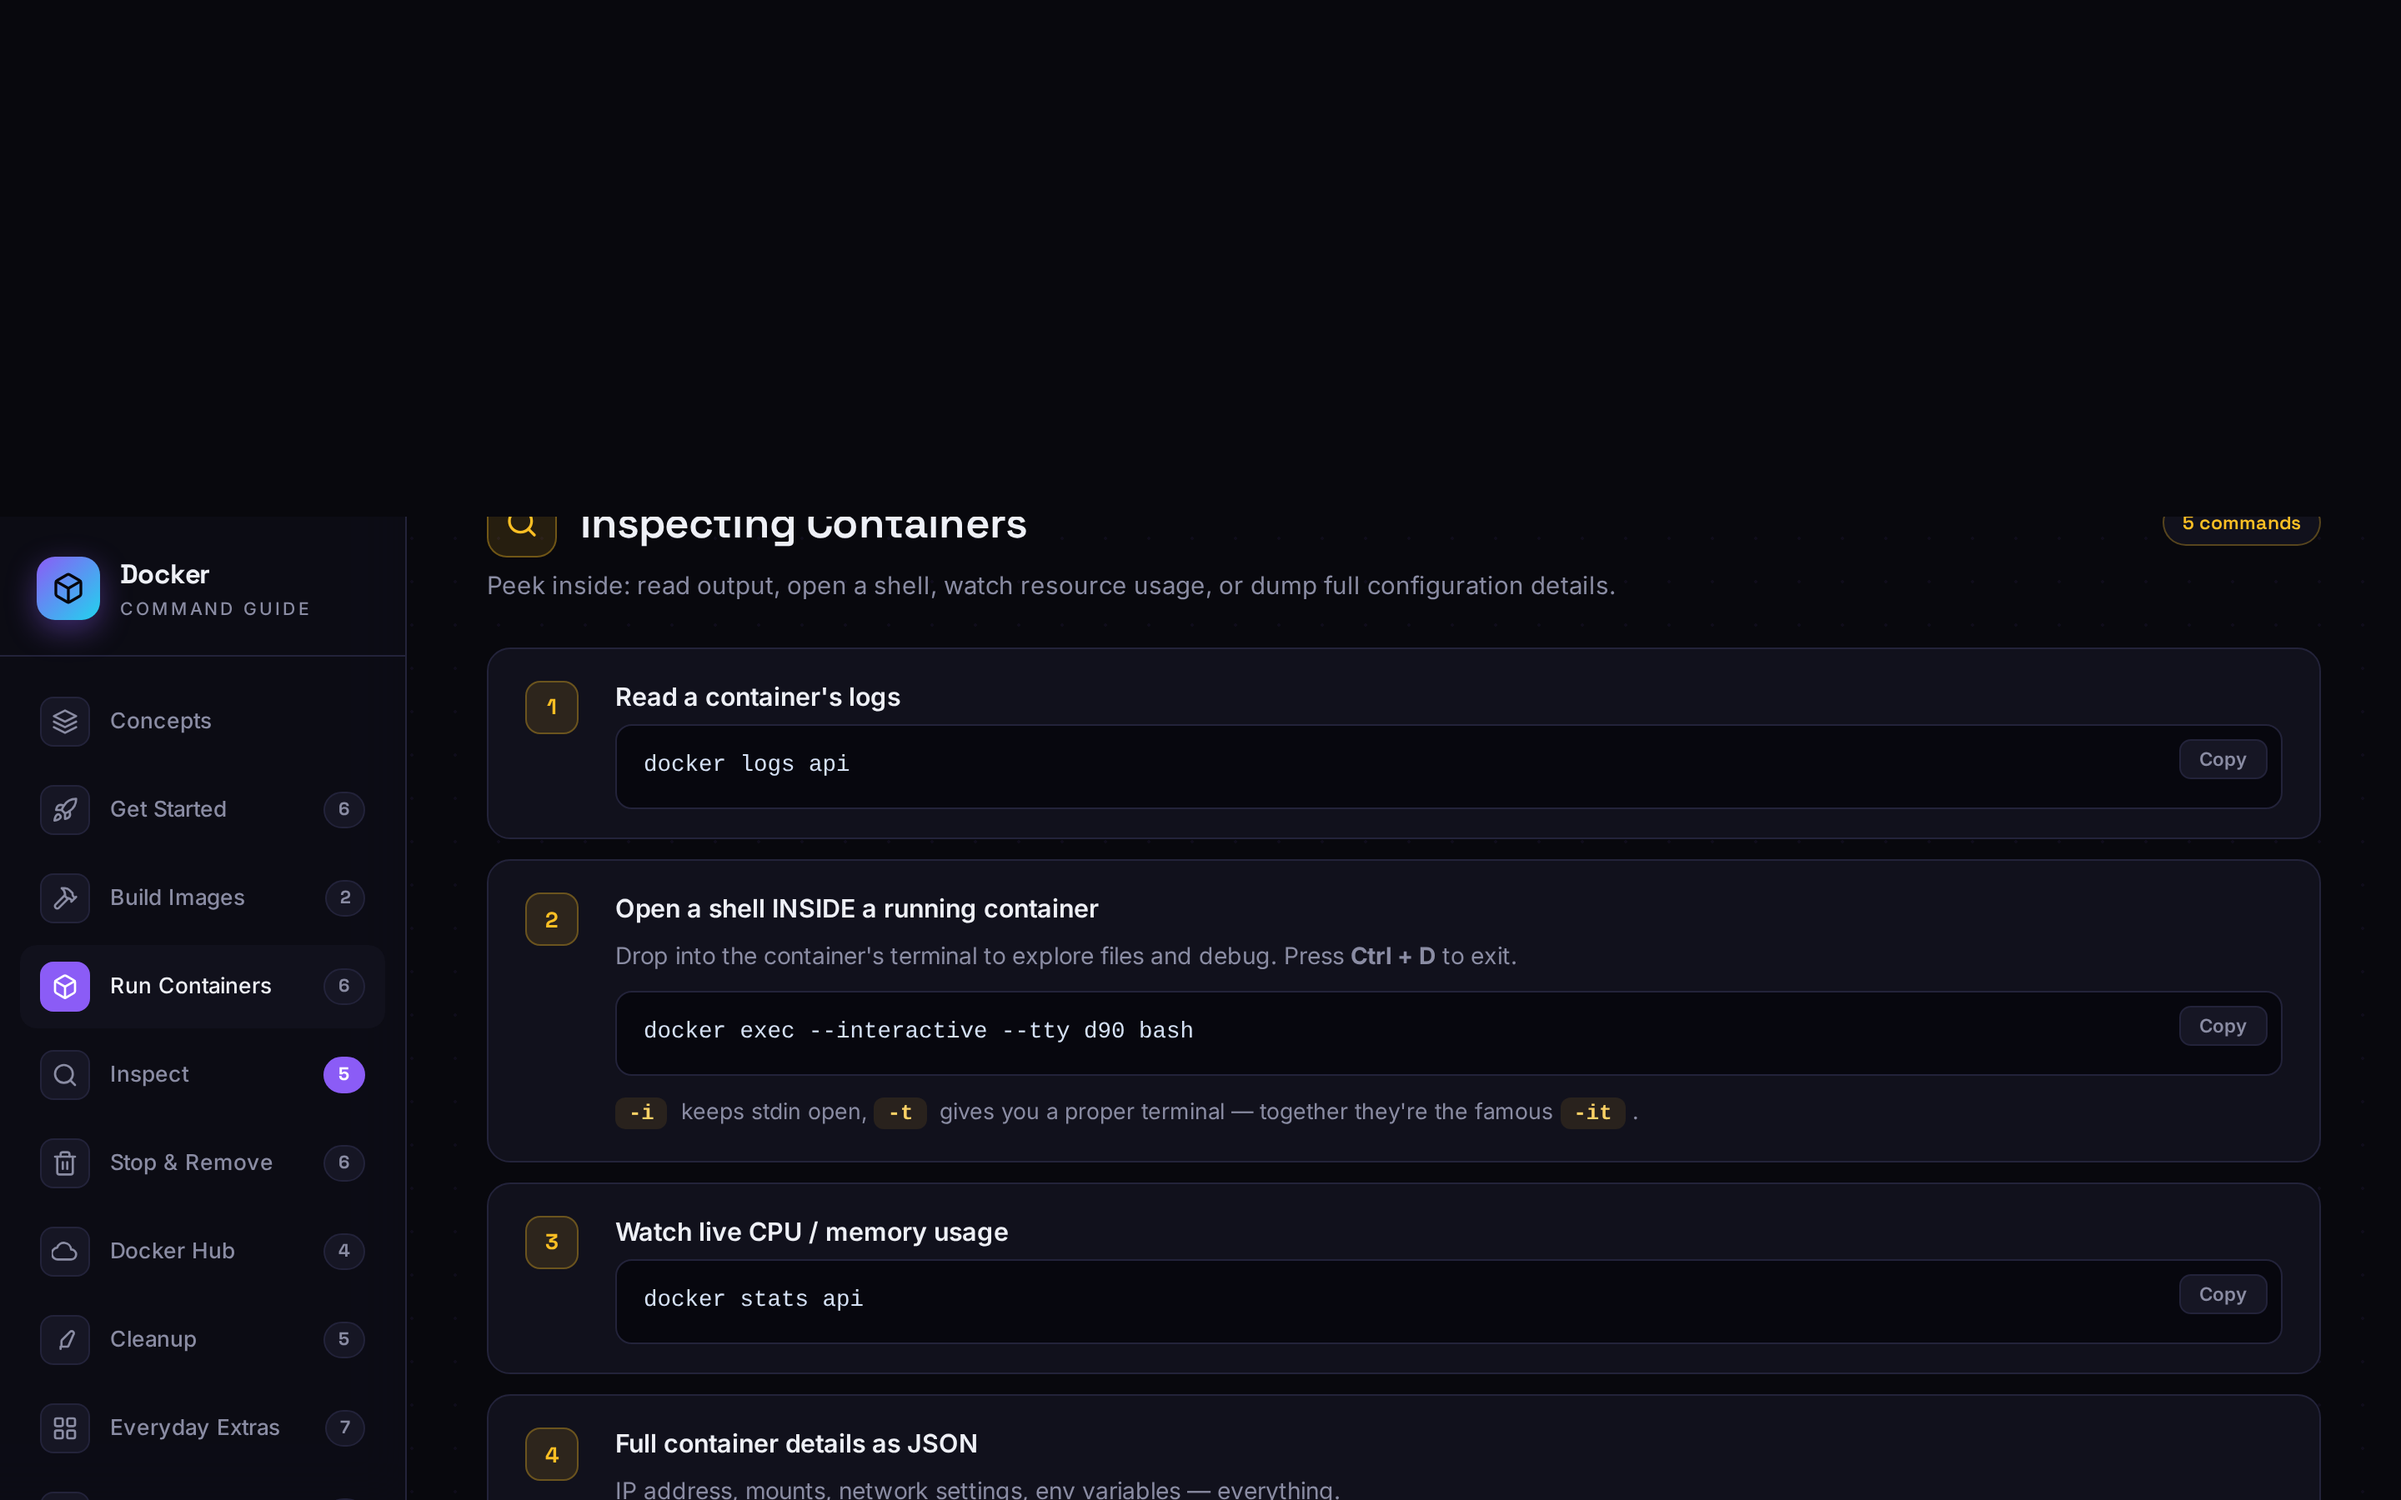
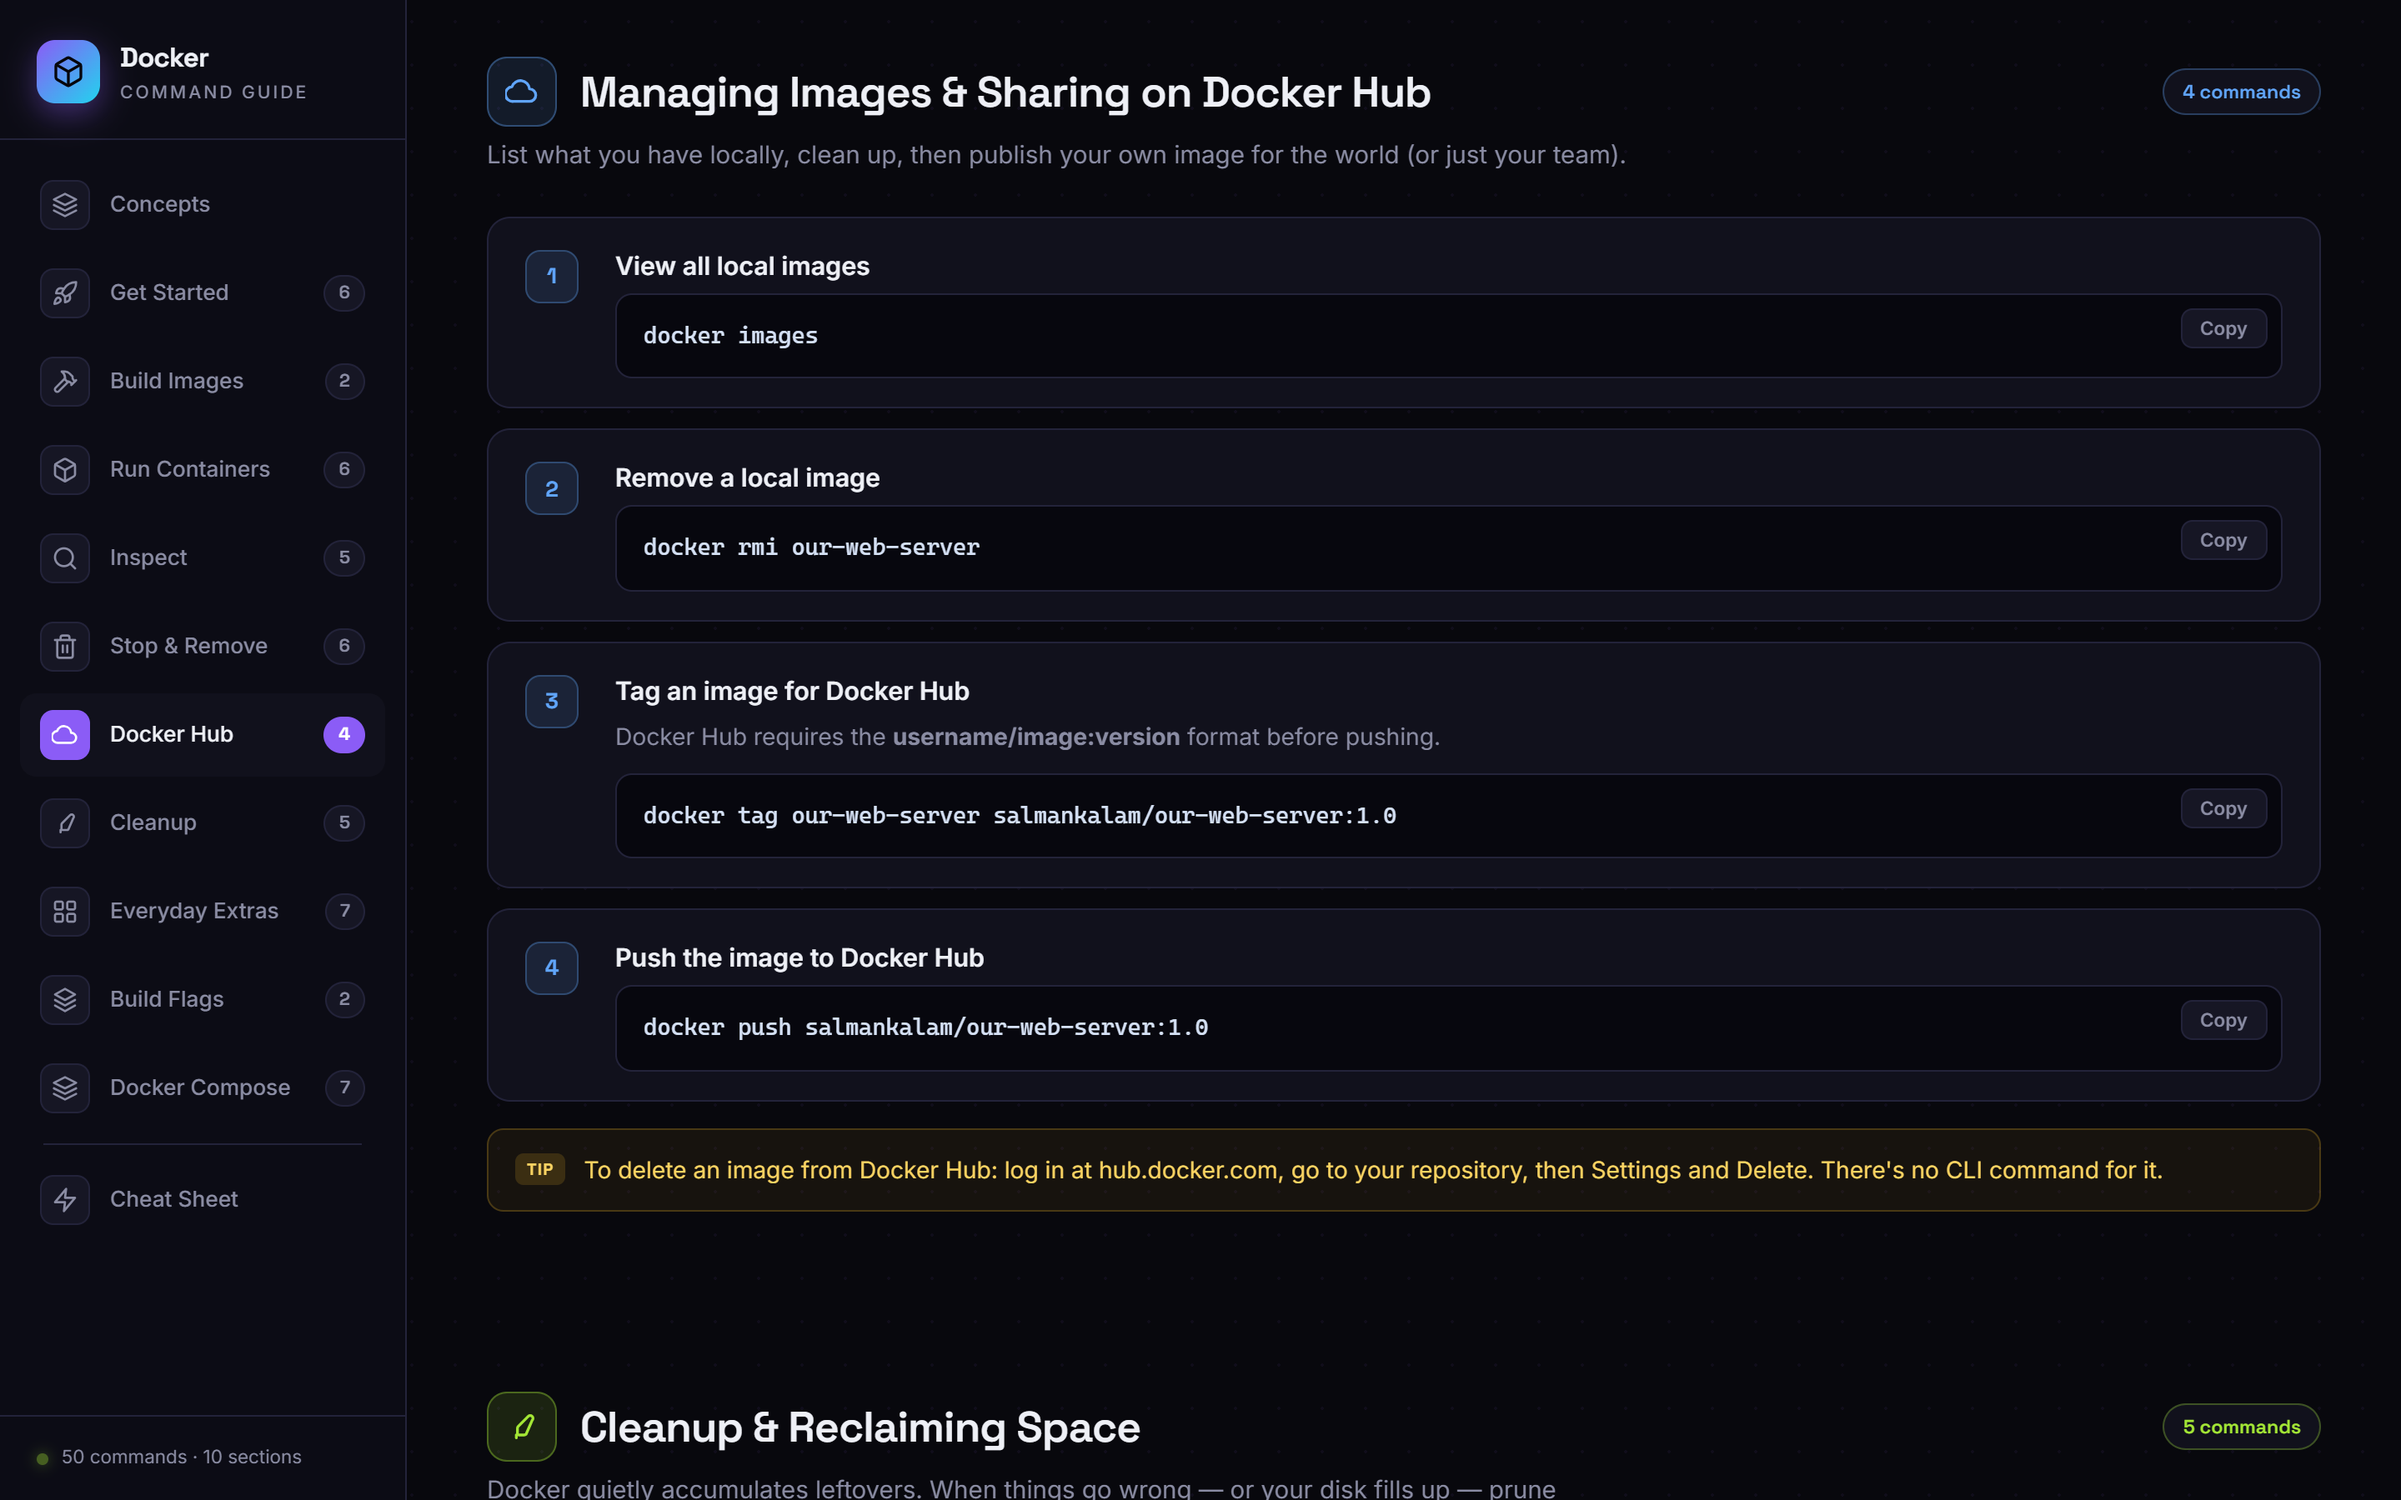
Fix blank screenshots + capture HTML #section shots instead of full.png
- Add pngjs-based blank detection (luminance variance) for hero/content
- Re-capture repos whose existing screenshots are blank
- Skip full-page capture; HTML/single-page sites now capture up to 8
  in-page #section screenshots, SPAs keep per-route capture
- Re-capture docker-guide and git-guide (hero was blank), drop full.png

diff --git a/scripts/capture-screenshots.js b/scripts/capture-screenshots.js
@@ -1,4 +1,5 @@
 import { chromium } from "playwright";
+import { PNG } from "pngjs";
 import fs from "node:fs";
 import path from "node:path";
 import { fileURLToPath } from "node:url";
@@ -50,6 +51,80 @@ function applyPlaceholder(repo) {
   repo.screenshot_error = null;
 }
 
+// A screenshot is "blank" when its pixels are nearly uniform (very low
+// luminance variance) — covers both white-blank and the near-black blank
+// heroes some dark-themed sites produce before they finish rendering.
+function isBlankBuffer(buf) {
+  let png;
+  try {
+    png = PNG.sync.read(buf);
+  } catch {
+    return false;
+  }
+  const { data, width, height } = png;
+  if (!width || !height) return true;
+  let sum = 0;
+  let sumSq = 0;
+  let n = 0;
+  const step = Math.max(4, Math.floor(width * height / 4000) * 4);
+  for (let i = 0; i < data.length; i += step) {
+    const r = data[i];
+    const g = data[i + 1];
+    const b = data[i + 2];
+    const lum = 0.299 * r + 0.587 * g + 0.114 * b;
+    sum += lum;
+    sumSq += lum * lum;
+    n++;
+  }
+  if (n === 0) return true;
+  const mean = sum / n;
+  const variance = sumSq / n - mean * mean;
+  const std = Math.sqrt(Math.max(0, variance));
+  return std < 12;
+}
+
+function isBlankFile(p) {
+  try {
+    return isBlankBuffer(fs.readFileSync(p));
+  } catch {
+    // Missing or unreadable file → treat as blank so it gets retried.
+    return true;
+  }
+}
+
+// Capture a screenshot, and if it comes out blank, re-settle the page and
+// re-shoot (up to 3 retries). `shootFn` performs the actual screenshot after
+// any page-specific scrolling has been applied by the caller.
+async function shootWithRetry(page, url, shootFn, outPath, label) {
+  for (let attempt = 0; attempt < 4; attempt++) {
+    if (attempt > 0) {
+      try {
+        await page.goto(url, { waitUntil: "load", timeout: 20000 });
+      } catch {
+        try {
+          await page.goto(url, { waitUntil: "domcontentloaded", timeout: 20000 });
+        } catch {
+          /* ignore */
+        }
+      }
+      await page.evaluate(() => document.fonts && document.fonts.ready).catch(() => {});
+      await page.waitForLoadState("networkidle").catch(() => {});
+      await page.waitForTimeout(2500);
+      await page.evaluate(() => window.scrollTo(0, 0));
+      await page.waitForTimeout(400);
+    }
+    try {
+      await shootFn();
+    } catch (e) {
+      console.log(`      ERR shoot ${label}: ${e.message}`);
+    }
+    if (!isBlankFile(outPath)) return true;
+    console.log(`      RETRY ${label} — blank (attempt ${attempt + 1})`);
+  }
+  console.log(`      WARN ${label} still blank after retries`);
+  return false;
+}
+
 async function captureRepo(repo) {
   if (!repo.pages_enabled || !repo.pages_url) {
     console.log(`  SKIP ${repo.name} — no GitHub Pages`);
@@ -65,10 +140,18 @@ async function captureRepo(repo) {
 
   const force = Boolean(process.env.FORCE);
   if (existing.length > 0 && repo.screenshots?.length > 0 && !force) {
+    // Re-capture only if any existing screenshot is blank; otherwise leave
+    // the repo alone (don't disturb repos with good screenshots).
+    const anyBlank = existing.some((f) => isBlankFile(path.join(outDir, f)));
+    if (!anyBlank) {
+      console.log(
+        `  DONE ${repo.name} — ${existing.length} screenshots exist, skipping`
+      );
+      return;
+    }
     console.log(
-      `  DONE ${repo.name} — ${existing.length} screenshots exist, skipping`
+      `  BLANK ${repo.name} — existing screenshots are blank, re-capturing`
     );
-    return;
   }
 
   if (force) {
@@ -135,60 +218,109 @@ async function captureRepo(repo) {
 
     const screenshots = [];
 
-    // ---- Home page: 3 screenshots (desktop only, no mobile) ----
+    // ---- Home page: hero + content (no full-page capture) ----
     // 1. Hero — viewport at top
-    await page.screenshot({ path: path.join(outDir, "hero.png"), fullPage: false });
+    const heroPath = path.join(outDir, "hero.png");
+    await shootWithRetry(
+      page,
+      repo.pages_url,
+      () => page.screenshot({ path: heroPath, fullPage: false }),
+      heroPath,
+      "hero"
+    );
     screenshots.push({ file: `${relativeDir}/hero.png`, type: "hero", label: "Hero View" });
     console.log(`    → hero.png`);
 
-    // 2. Full page (catches all content after lazy-load triggered)
-    await page.screenshot({ path: path.join(outDir, "full.png"), fullPage: true });
-    screenshots.push({ file: `${relativeDir}/full.png`, type: "full", label: "Full Page" });
-    console.log(`    → full.png`);
-
-    // 3. Content — viewport scrolled to the middle section
-    await page.evaluate(() =>
-      window.scrollTo(0, Math.max(0, (document.body.scrollHeight - window.innerHeight) / 2))
+    // 2. Content — viewport scrolled to the middle section
+    const contentPath = path.join(outDir, "content.png");
+    await shootWithRetry(
+      page,
+      repo.pages_url,
+      () => {
+        return page.evaluate(() =>
+          window.scrollTo(0, Math.max(0, (document.body.scrollHeight - window.innerHeight) / 2))
+        ).then(() => page.waitForTimeout(500))
+          .then(() => page.screenshot({ path: contentPath, fullPage: false }));
+      },
+      contentPath,
+      "content"
     );
-    await page.waitForTimeout(500);
-    await page.screenshot({ path: path.join(outDir, "content.png"), fullPage: false });
     screenshots.push({ file: `${relativeDir}/content.png`, type: "content", label: "Content View" });
     console.log(`    → content.png`);
 
-    // ---- One screenshot per internal route (desktop, no mobile) ----
+    // ---- Internal routes OR in-page sections ----
     const routes = await discoverRoutes(page, repo.pages_url);
-    for (const [i, route] of routes.entries()) {
-      const file = `route-${i + 1}.png`;
-      console.log(`    → ${file} (${route.url})`);
-      try {
-        await page.goto(route.url, { waitUntil: "load", timeout: 20000 });
-      } catch {
-        await page.goto(route.url, { waitUntil: "domcontentloaded", timeout: 20000 });
-      }
-
-      for (let i = 0; i < 10; i++) {
+    if (routes.length > 0) {
+      // Multi-page / SPA sites: one screenshot per internal route.
+      for (const [i, route] of routes.entries()) {
+        const file = `route-${i + 1}.png`;
+        console.log(`    → ${file} (${route.url})`);
         try {
-          await page.evaluate(() => document.readyState);
-          await page.waitForLoadState("networkidle").catch(() => {});
-          break;
+          await page.goto(route.url, { waitUntil: "load", timeout: 20000 });
         } catch {
-          await page.waitForTimeout(500);
+          await page.goto(route.url, { waitUntil: "domcontentloaded", timeout: 20000 });
         }
-      }
 
-      const routeTitle = await page.title();
-      if (FOUR04_TITLES.some((t) => routeTitle.includes(t))) {
-        console.log(`      SKIP route (404): ${route.url}`);
-        continue;
-      }
+        for (let i = 0; i < 10; i++) {
+          try {
+            await page.evaluate(() => document.readyState);
+            await page.waitForLoadState("networkidle").catch(() => {});
+            break;
+          } catch {
+            await page.waitForTimeout(500);
+          }
+        }
 
-      await triggerLazyLoad(page);
-      await page.screenshot({ path: path.join(outDir, file), fullPage: true });
-      screenshots.push({
-        file: `${relativeDir}/${file}`,
-        type: "route",
-        label: route.label || new URL(route.url).pathname || `Route ${i + 1}`,
-      });
+        const routeTitle = await page.title();
+        if (FOUR04_TITLES.some((t) => routeTitle.includes(t))) {
+          console.log(`      SKIP route (404): ${route.url}`);
+          continue;
+        }
+
+        await triggerLazyLoad(page);
+        const rPath = path.join(outDir, file);
+        await shootWithRetry(
+          page,
+          route.url,
+          () => page.screenshot({ path: rPath, fullPage: true }),
+          rPath,
+          file
+        );
+        screenshots.push({
+          file: `${relativeDir}/${file}`,
+          type: "route",
+          label: route.label || new URL(route.url).pathname || `Route ${i + 1}`,
+        });
+      }
+    } else {
+      // Single-page / HTML sites have no internal routes: screenshot each
+      // in-page #section (up to MAX_ROUTES), like the route capture above.
+      const sections = await discoverSections(page, repo.pages_url);
+      for (const [i, section] of sections.entries()) {
+        const file = `section-${i + 1}.png`;
+        console.log(`    → ${file} (${section.label})`);
+        const sPath = path.join(outDir, file);
+        await shootWithRetry(
+          page,
+          repo.pages_url,
+          () =>
+            page
+              .evaluate((elId) => {
+                const el = document.getElementById(elId);
+                if (el) el.scrollIntoView({ block: "start" });
+                window.scrollBy(0, -80);
+              }, section.id)
+              .then(() => page.waitForTimeout(500))
+              .then(() => page.screenshot({ path: sPath, fullPage: false })),
+          sPath,
+          file
+        );
+        screenshots.push({
+          file: `${relativeDir}/${file}`,
+          type: "section",
+          label: section.label || `Section ${i + 1}`,
+        });
+      }
     }
 
     repo.screenshots = screenshots;
@@ -263,6 +395,59 @@ async function discoverRoutes(page, pagesUrl) {
   return routes;
 }
 
+// For single-page / HTML sites that have no internal page routes, collect the
+// in-page #anchor links (e.g. nav to #commands) and screenshot each target
+// section. Up to MAX_ROUTES sections, mirroring the route capture for SPAs.
+async function discoverSections(page, pagesUrl) {
+  const base = new URL(pagesUrl);
+  const MAX = Number(process.env.MAX_ROUTES || 8);
+
+  const links = await page.evaluate(() =>
+    [...document.querySelectorAll("a[href]")].map((a) => ({
+      href: a.getAttribute("href"),
+      text: (a.textContent || "").trim().replace(/\s+/g, " ").slice(0, 80),
+    }))
+  );
+
+  const seen = new Set();
+  const sections = [];
+  for (const link of links) {
+    const href = link.href || "";
+    let id;
+    try {
+      const url = new URL(href, base);
+      if (url.origin !== base.origin) continue;
+      const pre = href.split("#")[0];
+      if (
+        pre &&
+        pre !== base.pathname &&
+        pre !== base.pathname.replace(/\/$/, "")
+      ) {
+        continue;
+      }
+      id = url.hash.slice(1);
+    } catch {
+      continue;
+    }
+    if (!id) continue;
+    if (seen.has(id)) continue;
+
+    const exists = await page
+      .evaluate((elId) => {
+        const el = document.getElementById(elId);
+        return !!el && el.getBoundingClientRect().height > 0;
+      }, id)
+      .catch(() => false);
+    if (!exists) continue;
+
+    seen.add(id);
+    sections.push({ id, label: link.text || id });
+    if (sections.length >= MAX) break;
+  }
+
+  return sections;
+}
+
 const IMAGE_EXTS = new Set([".png", ".jpg", ".jpeg", ".gif", ".webp", ".avif"]);
 
 // Build a screenshots array from whatever image files already exist in the
@@ -292,9 +477,15 @@ async function main() {
 
   for (const repo of repos) {
     // 1. User has dropped custom images into the project folder — use them as-is,
-    //    preserving their filenames and order. This overrides any prior refs.
+    //    preserving their filenames and order. Re-capture instead if any is blank.
     const local = scanLocalImages(repo);
-    if (local) {
+    const localBlank = local
+      ? local.some((s) =>
+          isBlankFile(path.join(projectsDir, repo.name, path.basename(s.file)))
+        )
+      : false;
+
+    if (local && !localBlank) {
       repo.screenshots = local;
       repo.page_title = repo.page_title || repo.name;
       repo.screenshot_error = null;
@@ -307,8 +498,13 @@ async function main() {
       continue;
     }
 
-    // 2. Already has screenshots in repos.json (user-managed) — never touch.
-    if (Array.isArray(repo.screenshots) && repo.screenshots.length > 0) {
+    if (localBlank) {
+      console.log(
+        `  BLANK ${repo.name} — existing local screenshots are blank, re-capturing`
+      );
+      // fall through to re-capture
+    } else if (Array.isArray(repo.screenshots) && repo.screenshots.length > 0) {
+      // 2. Already has screenshots in repos.json (user-managed) — never touch.
       console.log(
         `  KEEP ${repo.name} — ${repo.screenshots.length} screenshots already set, skipping`
       );
